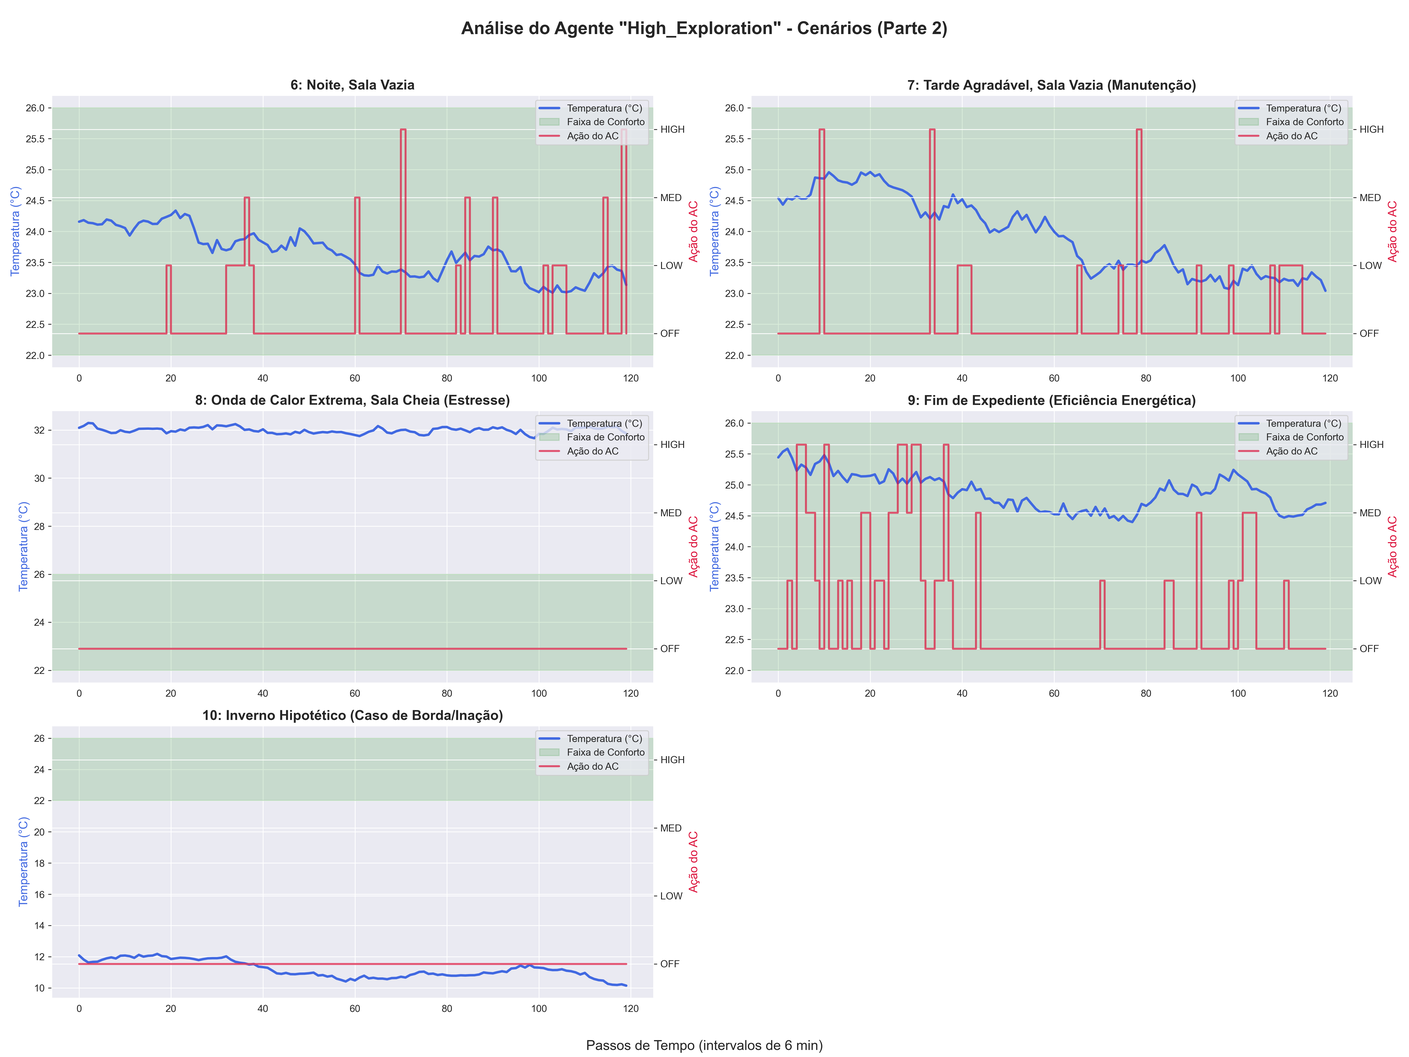
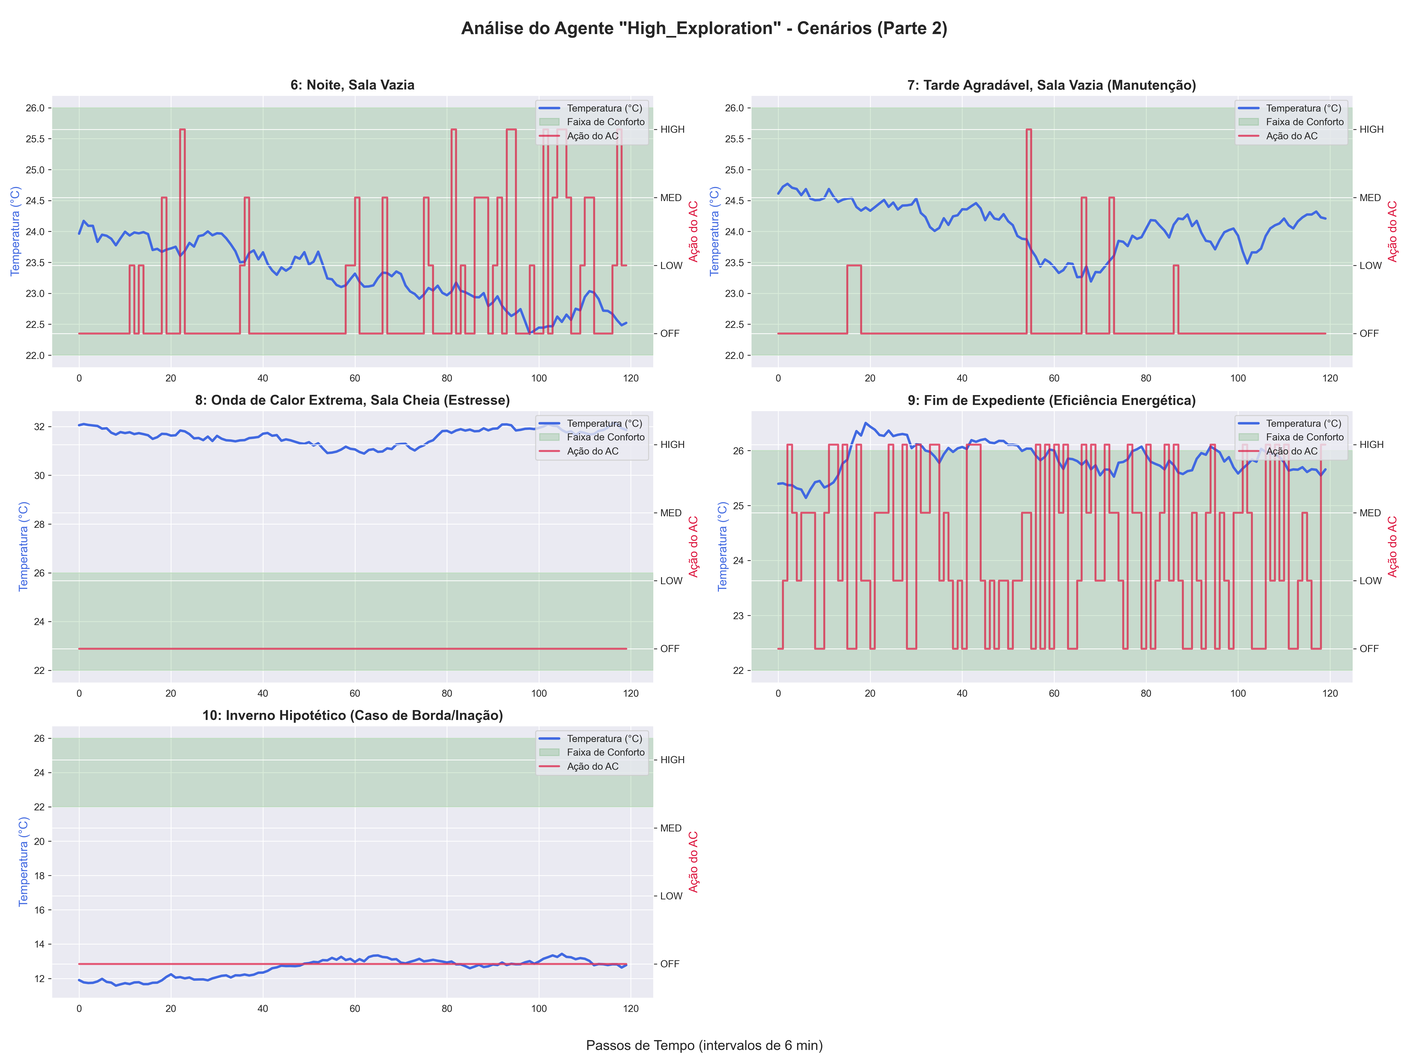
valores de recompensas adicionado no readme

diff --git a/classroom_ac_env.py b/classroom_ac_env.py
@@ -12,7 +12,7 @@ Autor: Renan Saraiva dos Santos
 
 import numpy as np
 from typing import Tuple, Dict, Optional
-from dataclasses import dataclass
+from dataclasses import dataclass, field
 from enum import Enum
 import matplotlib.pyplot as plt
 
@@ -38,30 +38,34 @@ class ClassroomConfig:
     initial_temp: float = 24.0
     ac_cooling_power: Dict[ACState, float] = None
     ac_energy_consumption: Dict[ACState, float] = None
+
+    # Usamos strings como chaves para facilitar a serialização para JSON.
+    reward_structure: Dict[str, float] = field(default_factory=dict)
     
     def __post_init__(self):
-        """
-        Inicializa ou corrige os dicionários, lidando com chaves de string
-        que podem ser tanto numéricas ("0", "1") quanto nomes ("ACState.OFF").
-        """
-        # Função auxiliar para reconstruir os dicionários
+        # (Lógica de autocorreção dos dicionários de AC, como na versão anterior)
         def rebuild_dict(d: dict) -> dict:
-            if not d or not isinstance(list(d.keys())[0], str):
-                return d # Retorna o dicionário se ele estiver vazio, correto, ou não for de strings
-
+            if not d or not isinstance(list(d.keys())[0], str): return d
             rebuilt = {}
             for k, v in d.items():
-                try:
-                    # Tenta converter a chave string para inteiro (ex: "2" -> 2)
-                    key_enum = ACState(int(k))
-                except ValueError:
-                    # Se falhar, assume que a chave é um nome (ex: "ACState.OFF")
-                    # Pega a parte depois do ponto final, se houver (OFF)
-                    key_name = k.split('.')[-1]
-                    # Recria o enum a partir do nome
-                    key_enum = ACState[key_name]
+                try: key_enum = ACState(int(k))
+                except ValueError: key_name = k.split('.')[-1]; key_enum = ACState[key_name]
                 rebuilt[key_enum] = v
             return rebuilt
+
+        if self.ac_cooling_power is None: self.ac_cooling_power = {ACState.OFF: 0.0, ACState.LOW: 2.0, ACState.MEDIUM: 4.0, ACState.HIGH: 6.0}
+        else: self.ac_cooling_power = rebuild_dict(self.ac_cooling_power)
+        
+        if self.ac_energy_consumption is None: self.ac_energy_consumption = {ACState.OFF: 0.0, ACState.LOW: 1.5, ACState.MEDIUM: 3.0, ACState.HIGH: 5.0}
+        else: self.ac_energy_consumption = rebuild_dict(self.ac_energy_consumption)
+
+        # Define os valores padrão para a estrutura de recompensa, se não for fornecida.
+        if not self.reward_structure:
+            self.reward_structure = {
+                'VERY_COLD': -15.0, 'COLD': -5.0,
+                'COMFORTABLE': 1.0,
+                'WARM': -5.0, 'VERY_HOT': -15.0
+            }
 
         # Bloco de inicialização
         if self.ac_cooling_power is None:
@@ -155,14 +159,15 @@ class ClassroomACEnvironment:
         return self.config.ac_energy_consumption[self.ac_state]
     
     def _calculate_reward(self, previous_ac_state: ACState) -> float:
-        comfort_rewards = {
-            ComfortLevel.VERY_COLD: -15.0, ComfortLevel.COLD: -5.0,
-            ComfortLevel.COMFORTABLE: 1.0, 
-            ComfortLevel.WARM: -5.0, ComfortLevel.VERY_HOT: -15.0
-        }
-        comfort_reward = comfort_rewards[self._get_comfort_level()]
-        energy_penalty = -self.config.ac_energy_consumption[self.ac_state] * 0.1
+        comfort_level = self._get_comfort_level()
+        energy_consumption = self._calculate_energy_consumption()
+        
+        # Lê a recompensa por conforto diretamente da configuração do ambiente, usando o nome do enum como chave.
+        comfort_reward = self.config.reward_structure[comfort_level.name]
+        
+        energy_penalty = -energy_consumption * 0.1
         action_change_penalty = -2.0 if self.ac_state != previous_ac_state else 0.0
+        
         return comfort_reward + energy_penalty + action_change_penalty
     
     def reset(self, start_temp: Optional[float] = None) -> int:

diff --git a/scenario_analyzer.py b/scenario_analyzer.py
@@ -112,7 +112,6 @@ def generate_readme(analysis_results: list, results_dir: str):
     readme_content = f"# Relatório de Análise de Agentes - {os.path.basename(results_dir)}\n\n"
     readme_content += "Este relatório documenta o comportamento de cada agente treinado sob um conjunto de 10 cenários de teste.\n"
 
-    # Adiciona a seção de comparação geral no início
     readme_content += "\n---\n\n## 📊 Análise Comparativa Geral\n\n"
     comparison_img_path = os.path.join(results_dir, "experiment_comparison.png")
     if os.path.exists(comparison_img_path):
@@ -121,16 +120,17 @@ def generate_readme(analysis_results: list, results_dir: str):
     else:
         readme_content += "O arquivo 'experiment_comparison.png' não foi encontrado.\n"
 
-    # Adiciona a análise detalhada para cada agente
     for result in analysis_results:
         readme_content += f"\n---\n\n## 🔎 Análise Detalhada do Agente: `{result['name']}`\n\n"
         
-        # --- INÍCIO DA ALTERAÇÃO ---
         readme_content += "### 1. Parâmetros de Configuração\n\n"
-        readme_content += "#### Parâmetros do Agente\n"
-        readme_content += result['agent_params_md'] + "\n\n"
-        readme_content += "#### Parâmetros do Ambiente\n"
-        readme_content += result['env_params_md'] + "\n\n"
+        readme_content += "#### Parâmetros do Agente\n" + result['agent_params_md'] + "\n\n"
+        readme_content += "#### Parâmetros do Ambiente\n" + result['env_params_md'] + "\n\n"
+        
+        # --- INÍCIO DA ALTERAÇÃO ---
+        # Adiciona a nova tabela de estrutura de recompensa
+        readme_content += "#### Estrutura de Recompensa\n"
+        readme_content += result['reward_table_md'] + "\n\n"
         # --- FIM DA ALTERAÇÃO ---
 
         readme_content += "### 2. Resumo Quantitativo de Desempenho\n\n"
@@ -156,7 +156,7 @@ def analyze_single_agent(results_dir: str, model_name: str, interactive: bool = 
         print(f"Não foi possível carregar o agente {model_name}. Pulando.")
         return None
 
-    # --- INÍCIO DA ALTERAÇÃO ---
+    
     # Geração das tabelas de parâmetros em Markdown
     agent_params_dict = dataclasses.asdict(agent.config)
     df_agent_params = pd.DataFrame.from_dict(agent_params_dict, orient='index', columns=['Valor'])
@@ -167,8 +167,12 @@ def analyze_single_agent(results_dir: str, model_name: str, interactive: bool = 
     df_env_params = pd.DataFrame.from_dict(env_params_dict, orient='index', columns=['Valor'])
     df_env_params.index.name = 'Parâmetro'
     env_params_md = df_env_params.to_markdown()
-    # --- FIM DA ALTERAÇÃO ---
 
+    # Geração da tabela de estrutura de recompensa em Markdown
+    reward_dict = env_config.reward_structure
+    df_rewards = pd.DataFrame.from_dict(reward_dict, orient='index', columns=['Valor'])
+    df_rewards.index.name = 'Nível de Conforto'; reward_table_md = df_rewards.to_markdown()
+    
     env = ClassroomACEnvironment(env_config)
     scenarios = [
         {'name': '1: Manhã Fria, Sala Vazia', 'start_temp': 19.0, 'occupancy': 0, 'hour': 8},
@@ -209,6 +213,7 @@ def analyze_single_agent(results_dir: str, model_name: str, interactive: bool = 
         'name': model_name, 
         'agent_params_md': agent_params_md,
         'env_params_md': env_params_md,
+        'reward_table_md': reward_table_md, 
         'summary_table_md': summary_table_md, 
         'plot_paths': plot_paths
     }

diff --git a/results_20251002_174127/README.md b/results_20251002_174127/README.md
@@ -32,7 +32,6 @@ A imagem abaixo compara o desempenho final de todos os agentes durante a fase de
 | use_optimistic_init |     1     |
 | optimistic_value    |     1     |
 
-
 #### Parâmetros do Ambiente
 | Parâmetro            |   Valor |
 |:---------------------|--------:|
@@ -49,20 +48,29 @@ A imagem abaixo compara o desempenho final de todos os agentes durante a fase de
 | temp_very_hot        |    30   |
 | initial_temp         |    24   |
 
+#### Estrutura de Recompensa
+| Nível de Conforto   |   Valor |
+|:--------------------|--------:|
+| VERY_COLD           |     -15 |
+| COLD                |      -5 |
+| COMFORTABLE         |       1 |
+| WARM                |      -5 |
+| VERY_HOT            |     -15 |
+
 ### 2. Resumo Quantitativo de Desempenho
 
 | Cenário                                         |   Temp. Média (°C) |   Tempo em Conforto (%) |   Energia Total (kW) |   Recompensa Média | Ação Predominante   |
 |:------------------------------------------------|-------------------:|------------------------:|---------------------:|-------------------:|:--------------------|
-| 1: Manhã Fria, Sala Vazia                       |              18.87 |                       0 |                206   |              -6.77 | OFF                 |
-| 2: Manhã Agradável, Sala Enchendo               |              23.3  |                     100 |                 74.5 |               0.35 | OFF                 |
-| 3: Tarde Quente, Sala Cheia                     |              29.76 |                       0 |                120.5 |             -10.77 | OFF                 |
-| 4: Tarde Quente, Sala Superlotada               |              28.3  |                       0 |                305.5 |              -6.72 | MED                 |
-| 5: Fim de Tarde, Sala Esvaziando                |              24.76 |                     100 |                101   |               0.17 | OFF                 |
-| 6: Noite, Sala Vazia                            |              23.78 |                     100 |                 16.5 |               0.75 | OFF                 |
-| 7: Tarde Agradável, Sala Vazia (Manutenção)     |              24.77 |                     100 |                 43   |               0.58 | OFF                 |
-| 8: Onda de Calor Extrema, Sala Cheia (Estresse) |              31.85 |                       0 |                  0   |             -15    | OFF                 |
-| 9: Fim de Expediente (Eficiência Energética)    |              25.19 |                     100 |                161   |              -0.18 | OFF                 |
-| 10: Inverno Hipotético (Caso de Borda/Inação)   |              12.62 |                       0 |                  0   |             -15    | OFF                 |
+| 1: Manhã Fria, Sala Vazia                       |              18.16 |                    0    |                113.5 |              -9.78 | OFF                 |
+| 2: Manhã Agradável, Sala Enchendo               |              22.12 |                   71.67 |                223   |              -2.27 | OFF                 |
+| 3: Tarde Quente, Sala Cheia                     |              27.13 |                    0    |                318.5 |              -6.83 | MED                 |
+| 4: Tarde Quente, Sala Superlotada               |              29.28 |                    0    |                196   |              -7.11 | LOW                 |
+| 5: Fim de Tarde, Sala Esvaziando                |              25.16 |                  100    |                157.5 |              -0.26 | OFF                 |
+| 6: Noite, Sala Vazia                            |              24.5  |                  100    |                 30   |               0.62 | OFF                 |
+| 7: Tarde Agradável, Sala Vazia (Manutenção)     |              25.2  |                   77.5  |                137   |              -1.33 | OFF                 |
+| 8: Onda de Calor Extrema, Sala Cheia (Estresse) |              32.09 |                    0    |                  0   |             -15    | OFF                 |
+| 9: Fim de Expediente (Eficiência Energética)    |              25.18 |                  100    |                165.5 |              -0.24 | OFF                 |
+| 10: Inverno Hipotético (Caso de Borda/Inação)   |              11.49 |                    0    |                  0   |             -15    | OFF                 |
 
 ### 3. Gráficos de Comportamento em Cenários
 
@@ -107,20 +115,29 @@ A imagem abaixo compara o desempenho final de todos os agentes durante a fase de
 | temp_very_hot        |    30   |
 | initial_temp         |    24   |
 
+#### Estrutura de Recompensa
+| Nível de Conforto   |   Valor |
+|:--------------------|--------:|
+| VERY_COLD           |     -15 |
+| COLD                |      -5 |
+| COMFORTABLE         |       1 |
+| WARM                |      -5 |
+| VERY_HOT            |     -15 |
+
 ### 2. Resumo Quantitativo de Desempenho
 
 | Cenário                                         |   Temp. Média (°C) |   Tempo em Conforto (%) |   Energia Total (kW) |   Recompensa Média | Ação Predominante   |
 |:------------------------------------------------|-------------------:|------------------------:|---------------------:|-------------------:|:--------------------|
-| 1: Manhã Fria, Sala Vazia                       |              20.41 |                    0    |                262.5 |              -6.72 | MED                 |
-| 2: Manhã Agradável, Sala Enchendo               |              23.02 |                  100    |                 37.5 |               0.45 | OFF                 |
-| 3: Tarde Quente, Sala Cheia                     |              28.74 |                    0    |                261   |              -7.1  | OFF                 |
-| 4: Tarde Quente, Sala Superlotada               |              29.47 |                    0    |                175   |              -7.05 | OFF                 |
-| 5: Fim de Tarde, Sala Esvaziando                |              24.81 |                  100    |                 86.5 |               0.13 | OFF                 |
-| 6: Noite, Sala Vazia                            |              24.58 |                  100    |                 84.5 |               0.23 | OFF                 |
-| 7: Tarde Agradável, Sala Vazia (Manutenção)     |              24.87 |                  100    |                 89   |               0.34 | OFF                 |
-| 8: Onda de Calor Extrema, Sala Cheia (Estresse) |              32.55 |                    0    |                  0   |             -15    | OFF                 |
-| 9: Fim de Expediente (Eficiência Energética)    |              26.32 |                   31.67 |                237   |              -4.63 | OFF                 |
-| 10: Inverno Hipotético (Caso de Borda/Inação)   |              12.08 |                    0    |                  0   |             -15    | OFF                 |
+| 1: Manhã Fria, Sala Vazia                       |              18.19 |                       0 |                126   |             -10.35 | OFF                 |
+| 2: Manhã Agradável, Sala Enchendo               |              24.23 |                     100 |                 49   |               0.48 | OFF                 |
+| 3: Tarde Quente, Sala Cheia                     |              27.74 |                       0 |                272   |              -6.78 | OFF                 |
+| 4: Tarde Quente, Sala Superlotada               |              29.37 |                       0 |                207.5 |              -6.67 | OFF                 |
+| 5: Fim de Tarde, Sala Esvaziando                |              24.82 |                     100 |                119   |              -0.02 | OFF                 |
+| 6: Noite, Sala Vazia                            |              24.03 |                     100 |                 39   |               0.53 | OFF                 |
+| 7: Tarde Agradável, Sala Vazia (Manutenção)     |              24.3  |                     100 |                 21.5 |               0.75 | OFF                 |
+| 8: Onda de Calor Extrema, Sala Cheia (Estresse) |              31.31 |                       0 |                  0   |             -15    | OFF                 |
+| 9: Fim de Expediente (Eficiência Energética)    |              25.37 |                      95 |                162.5 |              -0.67 | OFF                 |
+| 10: Inverno Hipotético (Caso de Borda/Inação)   |              11.58 |                       0 |                  0   |             -15    | OFF                 |
 
 ### 3. Gráficos de Comportamento em Cenários
 
@@ -165,20 +182,29 @@ A imagem abaixo compara o desempenho final de todos os agentes durante a fase de
 | temp_very_hot        |    30   |
 | initial_temp         |    24   |
 
+#### Estrutura de Recompensa
+| Nível de Conforto   |   Valor |
+|:--------------------|--------:|
+| VERY_COLD           |     -15 |
+| COLD                |      -5 |
+| COMFORTABLE         |       1 |
+| WARM                |      -5 |
+| VERY_HOT            |     -15 |
+
 ### 2. Resumo Quantitativo de Desempenho
 
 | Cenário                                         |   Temp. Média (°C) |   Tempo em Conforto (%) |   Energia Total (kW) |   Recompensa Média | Ação Predominante   |
 |:------------------------------------------------|-------------------:|------------------------:|---------------------:|-------------------:|:--------------------|
-| 1: Manhã Fria, Sala Vazia                       |              20.4  |                       0 |                225   |              -6.69 | OFF                 |
-| 2: Manhã Agradável, Sala Enchendo               |              23.7  |                     100 |                 42.5 |               0.65 | OFF                 |
-| 3: Tarde Quente, Sala Cheia                     |              28.03 |                       0 |                275   |              -6.65 | MED                 |
-| 4: Tarde Quente, Sala Superlotada               |              29.88 |                       0 |                158   |              -8.57 | OFF                 |
-| 5: Fim de Tarde, Sala Esvaziando                |              25.1  |                     100 |                197   |              -0.11 | OFF                 |
-| 6: Noite, Sala Vazia                            |              23.64 |                     100 |                 41.5 |               0.57 | OFF                 |
-| 7: Tarde Agradável, Sala Vazia (Manutenção)     |              23.94 |                     100 |                 34.5 |               0.64 | OFF                 |
-| 8: Onda de Calor Extrema, Sala Cheia (Estresse) |              31.99 |                       0 |                  0   |             -15    | OFF                 |
-| 9: Fim de Expediente (Eficiência Energética)    |              24.88 |                     100 |                100   |               0.23 | OFF                 |
-| 10: Inverno Hipotético (Caso de Borda/Inação)   |              11.19 |                       0 |                  0   |             -15    | OFF                 |
+| 1: Manhã Fria, Sala Vazia                       |              19.33 |                    0    |                268.5 |              -6.62 | MED                 |
+| 2: Manhã Agradável, Sala Enchendo               |              22.78 |                   95.83 |                156.5 |              -0.33 | OFF                 |
+| 3: Tarde Quente, Sala Cheia                     |              28.02 |                    0    |                286   |              -6.76 | MED                 |
+| 4: Tarde Quente, Sala Superlotada               |              29.91 |                    0    |                125   |              -9.72 | OFF                 |
+| 5: Fim de Tarde, Sala Esvaziando                |              23.85 |                  100    |                 28.5 |               0.68 | OFF                 |
+| 6: Noite, Sala Vazia                            |              23.29 |                  100    |                 98.5 |               0.18 | OFF                 |
+| 7: Tarde Agradável, Sala Vazia (Manutenção)     |              24.08 |                  100    |                 17   |               0.82 | OFF                 |
+| 8: Onda de Calor Extrema, Sala Cheia (Estresse) |              31.6  |                    0    |                  0   |             -15    | OFF                 |
+| 9: Fim de Expediente (Eficiência Energética)    |              25.86 |                   66.67 |                279.5 |              -2.75 | OFF                 |
+| 10: Inverno Hipotético (Caso de Borda/Inação)   |              12.61 |                    0    |                  0   |             -15    | OFF                 |
 
 ### 3. Gráficos de Comportamento em Cenários
 
@@ -223,20 +249,29 @@ A imagem abaixo compara o desempenho final de todos os agentes durante a fase de
 | temp_very_hot        |    30   |
 | initial_temp         |    24   |
 
+#### Estrutura de Recompensa
+| Nível de Conforto   |   Valor |
+|:--------------------|--------:|
+| VERY_COLD           |     -15 |
+| COLD                |      -5 |
+| COMFORTABLE         |       1 |
+| WARM                |      -5 |
+| VERY_HOT            |     -15 |
+
 ### 2. Resumo Quantitativo de Desempenho
 
 | Cenário                                         |   Temp. Média (°C) |   Tempo em Conforto (%) |   Energia Total (kW) |   Recompensa Média | Ação Predominante   |
 |:------------------------------------------------|-------------------:|------------------------:|---------------------:|-------------------:|:--------------------|
-| 1: Manhã Fria, Sala Vazia                       |              18.45 |                    0    |                  179 |              -8.23 | OFF                 |
-| 2: Manhã Agradável, Sala Enchendo               |              23.11 |                  100    |                    0 |               1    | OFF                 |
-| 3: Tarde Quente, Sala Cheia                     |              27.94 |                    0    |                  254 |              -6.56 | OFF                 |
-| 4: Tarde Quente, Sala Superlotada               |              28.17 |                    0    |                  300 |              -6.72 | LOW                 |
-| 5: Fim de Tarde, Sala Esvaziando                |              23.68 |                  100    |                    0 |               1    | OFF                 |
-| 6: Noite, Sala Vazia                            |              23.59 |                  100    |                    0 |               1    | OFF                 |
-| 7: Tarde Agradável, Sala Vazia (Manutenção)     |              25.04 |                  100    |                    3 |               0.96 | OFF                 |
-| 8: Onda de Calor Extrema, Sala Cheia (Estresse) |              31.35 |                    0    |                    6 |             -15.07 | OFF                 |
-| 9: Fim de Expediente (Eficiência Energética)    |              27.15 |                    4.17 |                  253 |              -6.39 | OFF                 |
-| 10: Inverno Hipotético (Caso de Borda/Inação)   |              12.17 |                    0    |                    0 |             -15    | OFF                 |
+| 1: Manhã Fria, Sala Vazia                       |              18.15 |                    0    |                166   |             -10.54 | OFF                 |
+| 2: Manhã Agradável, Sala Enchendo               |              22.23 |                   60    |                 90.5 |              -2.18 | OFF                 |
+| 3: Tarde Quente, Sala Cheia                     |              29    |                    0    |                177.5 |              -6.4  | OFF                 |
+| 4: Tarde Quente, Sala Superlotada               |              29.14 |                    0    |                191   |              -6.16 | OFF                 |
+| 5: Fim de Tarde, Sala Esvaziando                |              24.79 |                  100    |                  0   |               1    | OFF                 |
+| 6: Noite, Sala Vazia                            |              25.13 |                  100    |                  0   |               1    | OFF                 |
+| 7: Tarde Agradável, Sala Vazia (Manutenção)     |              24.84 |                  100    |                  0   |               1    | OFF                 |
+| 8: Onda de Calor Extrema, Sala Cheia (Estresse) |              32.08 |                    0    |                  0   |             -15    | OFF                 |
+| 9: Fim de Expediente (Eficiência Energética)    |              25.5  |                   71.67 |                 67   |              -1.11 | OFF                 |
+| 10: Inverno Hipotético (Caso de Borda/Inação)   |              11.57 |                    0    |                  0   |             -15    | OFF                 |
 
 ### 3. Gráficos de Comportamento em Cenários
 
